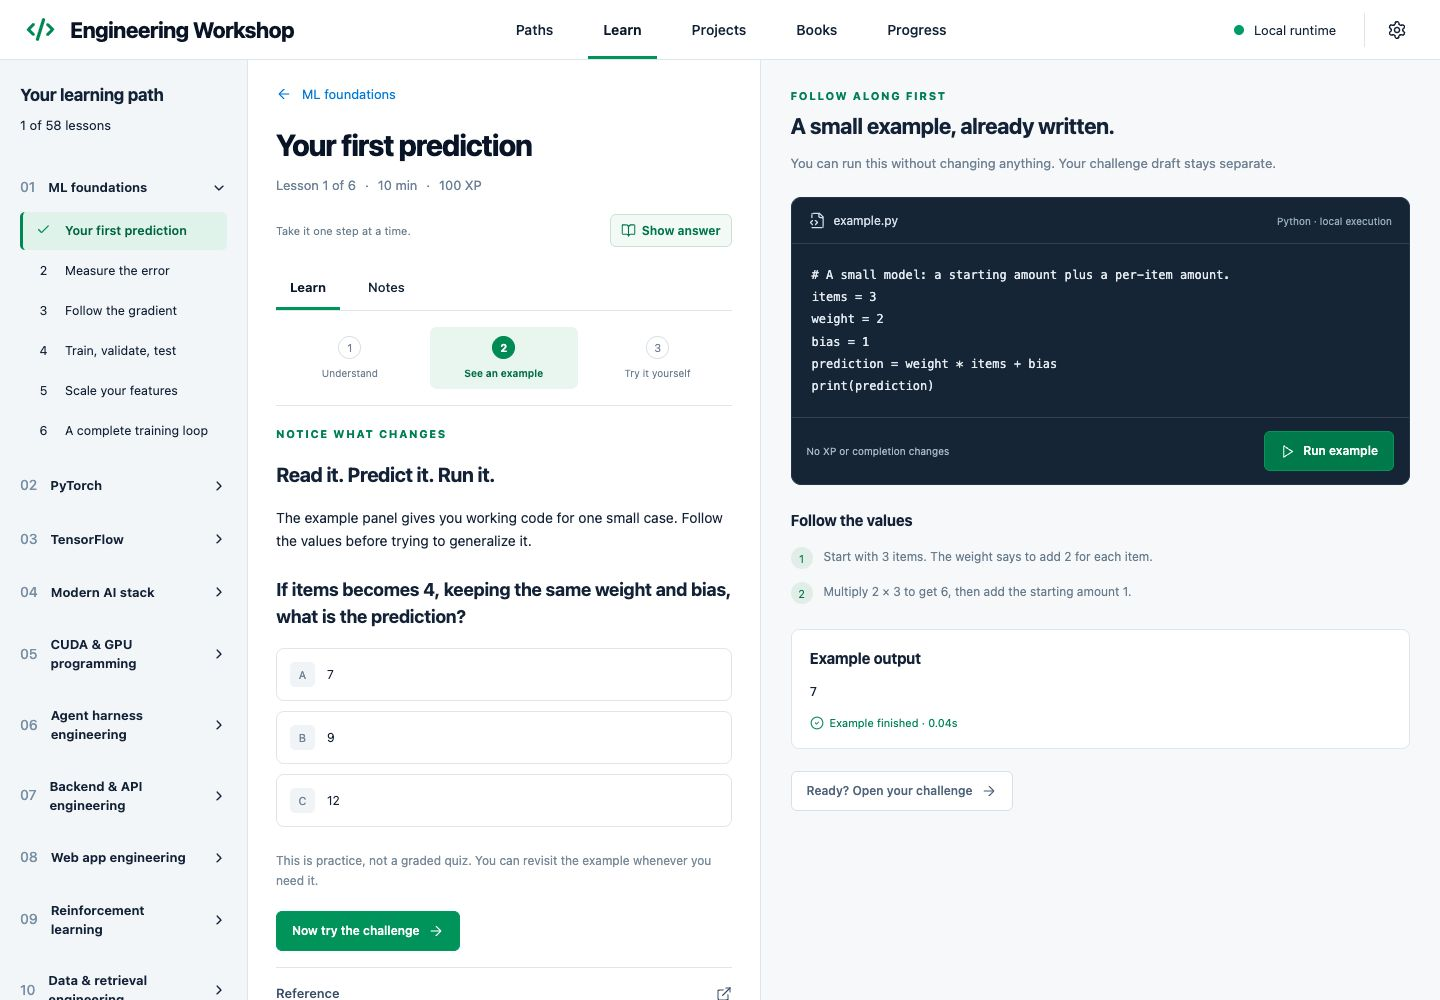
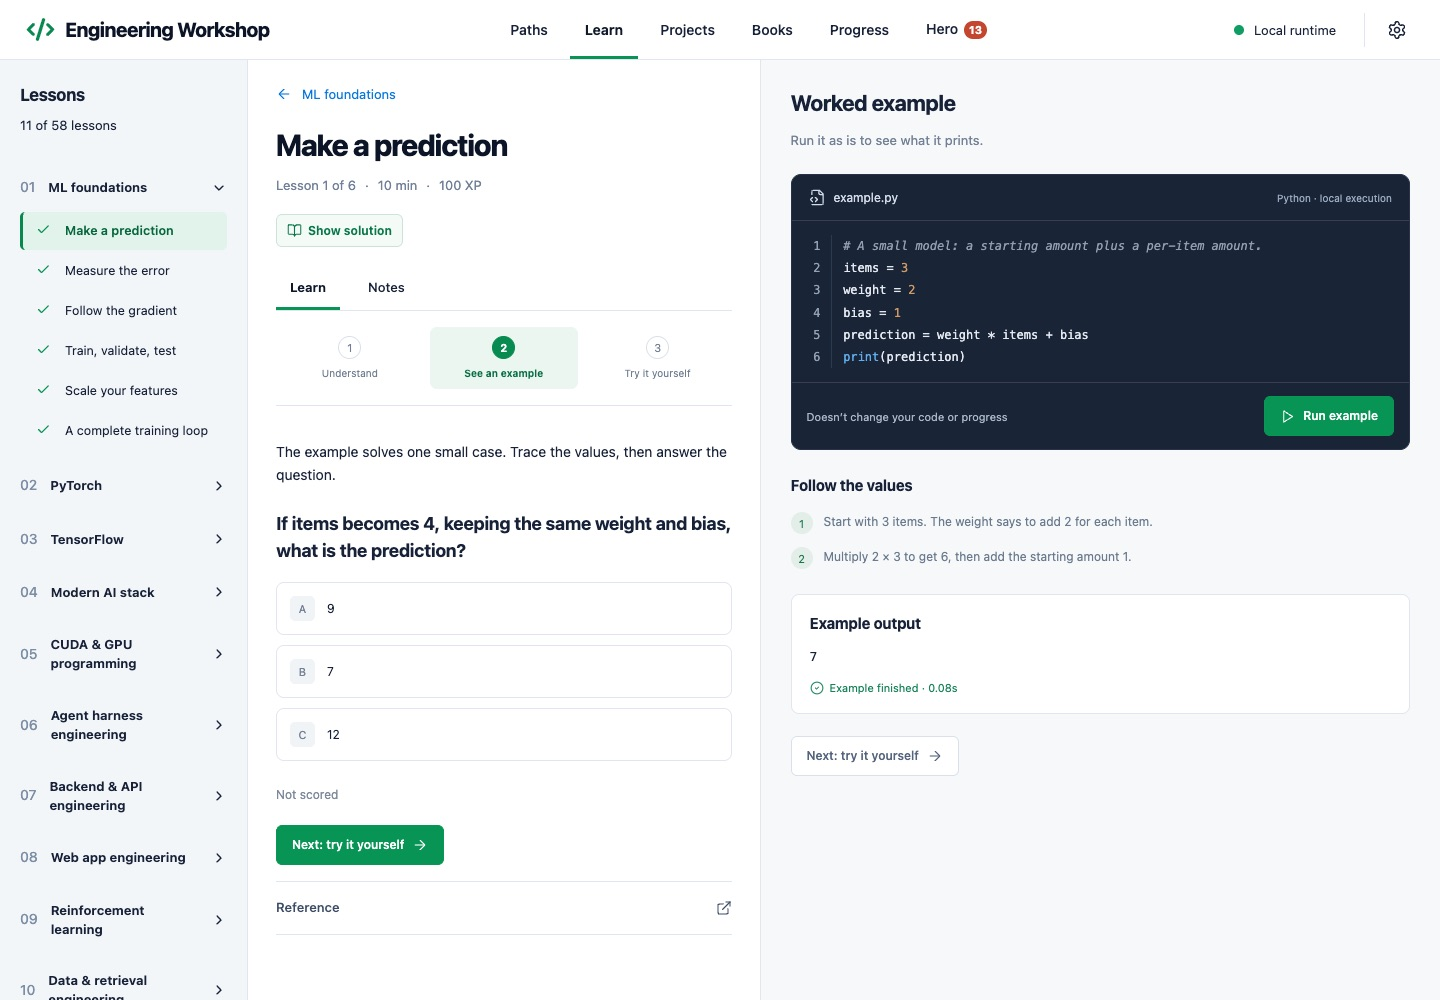
Retake the guided lesson screenshot and add an armory screenshot
docs/guided-lesson-screenshot.jpg shows the current lesson copy, line
numbers and the example output. docs/hero-screenshot.jpg shows the Hero
armory with test data and appears in the README Hero section. Both were
taken with headless Chrome at 1440 px wide from this branch's build.

diff --git a/README.md b/README.md
@@ -93,6 +93,8 @@ Finishing work earns rewards in a small fantasy game that runs alongside the les
 - **Gear.** Create one hero from 13 World of Warcraft races and 12 classes. Chests only hold gear that class can use, in five rarities: Basic (white), Common (green), Rare (blue), Epic (red), and Legendary (orange). Better rarities look more ornate on the 3D hero and in your bags. Over the full curriculum a player opens about 140 items, of which about 4 are Legendary.
 - **Battles.** Every finished task also earns one fight in a top-down arena: click to move and attack, and use Q, W, E and R to cast your class's abilities. Each stage ends with a boss. A new hero is meant to lose at first. Damage you deal to a boss carries over between fights, and every chest makes you stronger. An **Auto** button plays the fight for you if you prefer to watch.
 
+![The Hero armory: equipped gear on a 3D hero, and chests earned from lessons](docs/hero-screenshot.jpg)
+
 The game is drawn with three.js and needs WebGL. Its data lives in the same local SQLite database as your progress and is included in exports.
 
 Race and class names are a nod to World of Warcraft; this project is not affiliated with or endorsed by Blizzard Entertainment, and all art is generated by the app.
